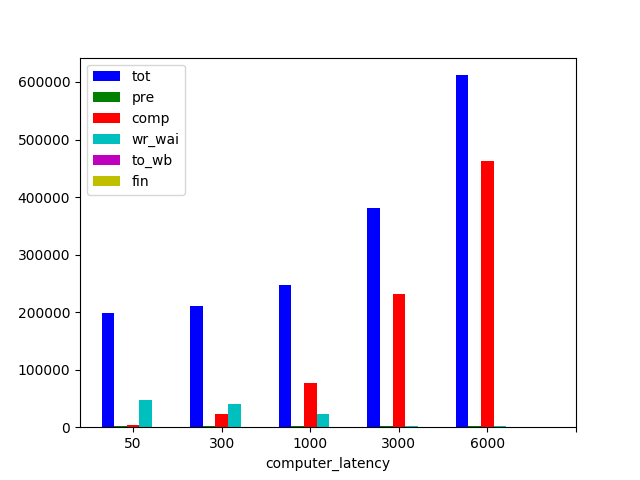
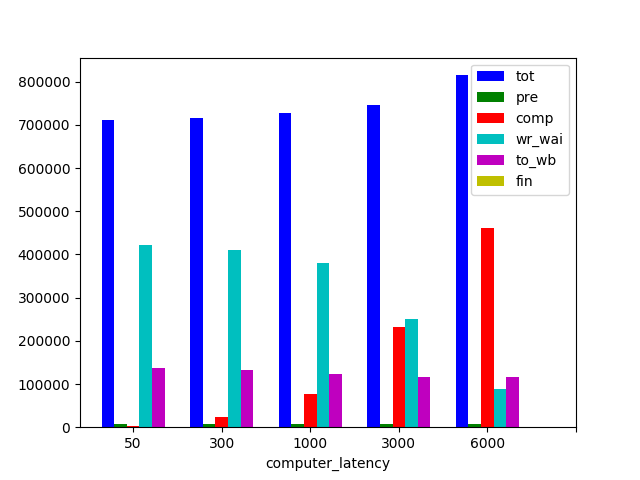
无

diff --git a/utilities/test.py b/utilities/test.py
@@ -216,8 +216,8 @@ def deal4():
     buffer_num = np.array([2, 5, 9, 15])
     prefetch_num = np.array([[1],[2,4],[1,4,9],[1,5,9,15]])
 
-    dram_bw_2 = 2048
-    dram_bw_1 = 2048
+    dram_bw_2 = 600
+    dram_bw_1 = 800
     mi_size = N * 60 / 1000
     output_buffer_size = [x * mi_size for x in [0.1, 0.3, 0.7, 1, 3]]
     computer_latency = [x for x in [50,300,1000,3000,6000]]
@@ -287,8 +287,8 @@ def deal5():
     N = 65536
     buffer_num = 2
     prefetch_num = 1
-    dram_bw_1 = 2048
-    dram_bw_2 = 2048
+    dram_bw_1 = 600
+    dram_bw_2 = 800
     mi_size = N * 60 / 1000
     output_buffer_size = 1200
     computer_latency = [x for x in [50,300,1000,3000,6000]]
@@ -379,7 +379,7 @@ if __name__ == "__main__":
     # deal3()
 
     # 分析输入buffer computer_latency和带宽与cycles的关系
-    # deal4()
+    deal4()
     deal5()
 
 
